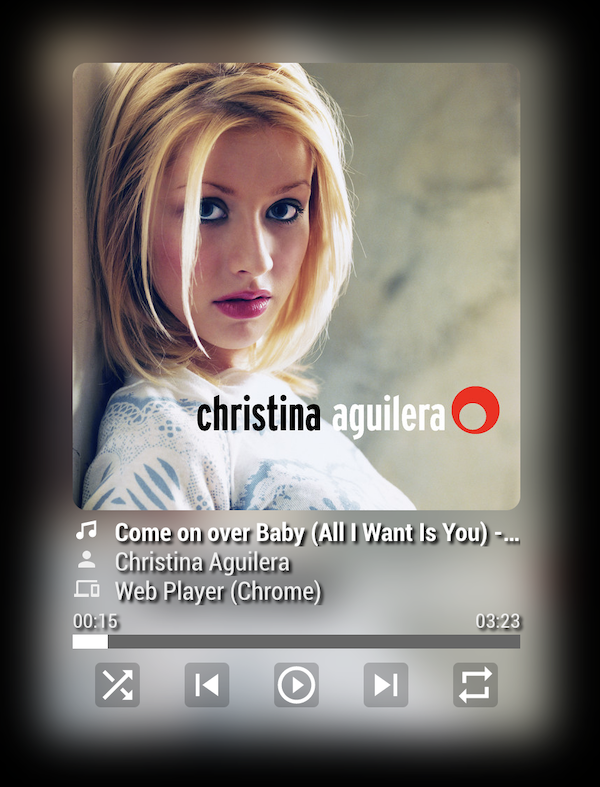
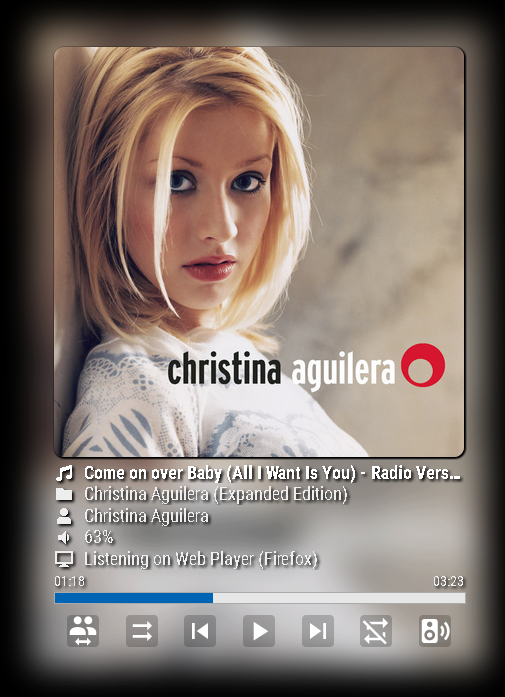
updated readme, package and screenshot

diff --git a/README.md b/README.md
@@ -12,7 +12,7 @@ Spotify controller for MagicMirror. Multiples accounts supported!
 
 - Showing Current playback on any devices
 - Playing Controllable by Notification & touch (Play, pause, next, previous, volume)
-- Spotify Controllable by Notification (change device, search and play)
+- Spotify Controllable by Notification & touch (change device, change account, search and play)
 - Multiple accounts supported
 
 ## Install
@@ -129,6 +129,8 @@ That's all. `token.json` will be created, if success.
     style: "default", // "default" or "mini" available (inactive for miniBar)
     moduleWidth: 360, // width of the module in px
     control: "default", // "default" or "hidden"
+    showAccountButton: true, // if you want to show the "switch account" control button
+    showDeviceButton: true, // if you want to show the "switch device" control button
     accountDefault: 0, // default account number, attention : 0 is the first account
     updateInterval: 1000, // update interval when playing
     idleInterval: 30000, // update interval on idle
@@ -187,7 +189,7 @@ When `search` field exists, `spotifyUri` will be ignored.
 - `SPOTIFY_SEARCH` : search items with query and play it. `type`, `query`, `random` be payloads
 
 ```json
-  this.sendNotification("SPOTIFY_SEARCH", {type:"artist,playlist", query:"michael+jackson", random:false})
+  this.sendNotification("SPOTIFY_SEARCH", {"type": "artist,playlist", "query": "michael+jackson", "random": false})
 ```
 
 - `SPOTIFY_PLAY` : playing specific SpotifyUri. There could be two types of uri - `context_uri` and `uris`. 
@@ -284,6 +286,10 @@ this.sendNotification("SPOTIFY_ACCOUNT", 0)
 It can be used with MMM-pages for example (for show or hide the module)
 
 ## Update History
+
+### 1.6.1 (2020-10-18)
+
+- Added: buttons for swichting accounts and devices (for better touch support) - only tested in "mini" and "default" view
 
 ### 1.6.0 (2020-10-15)
 
